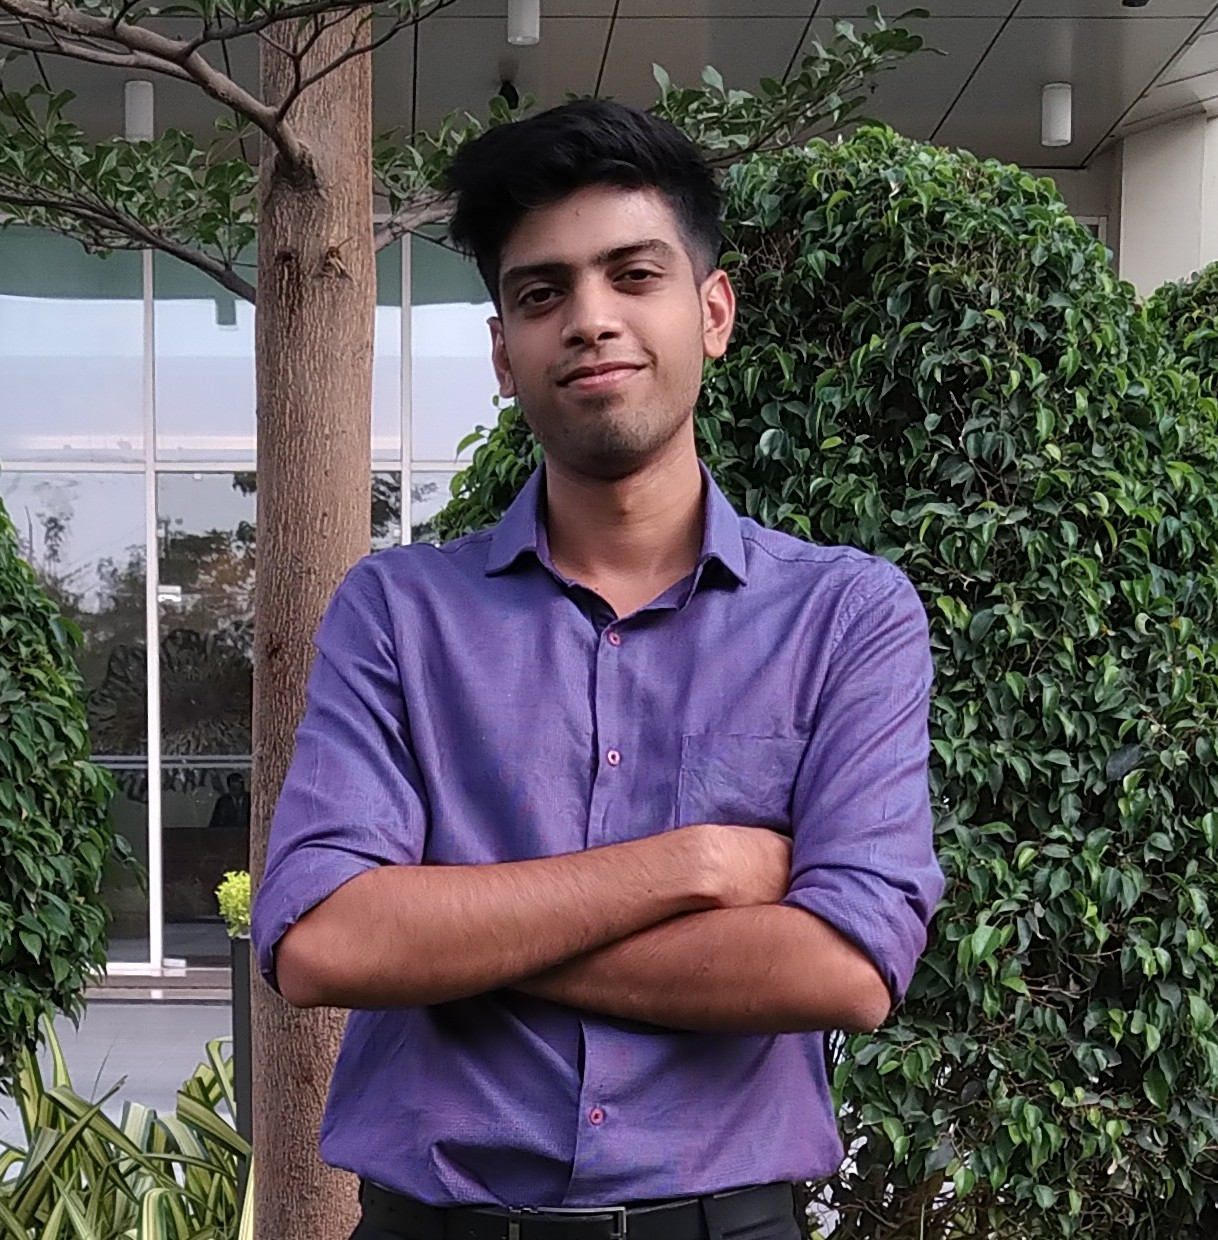
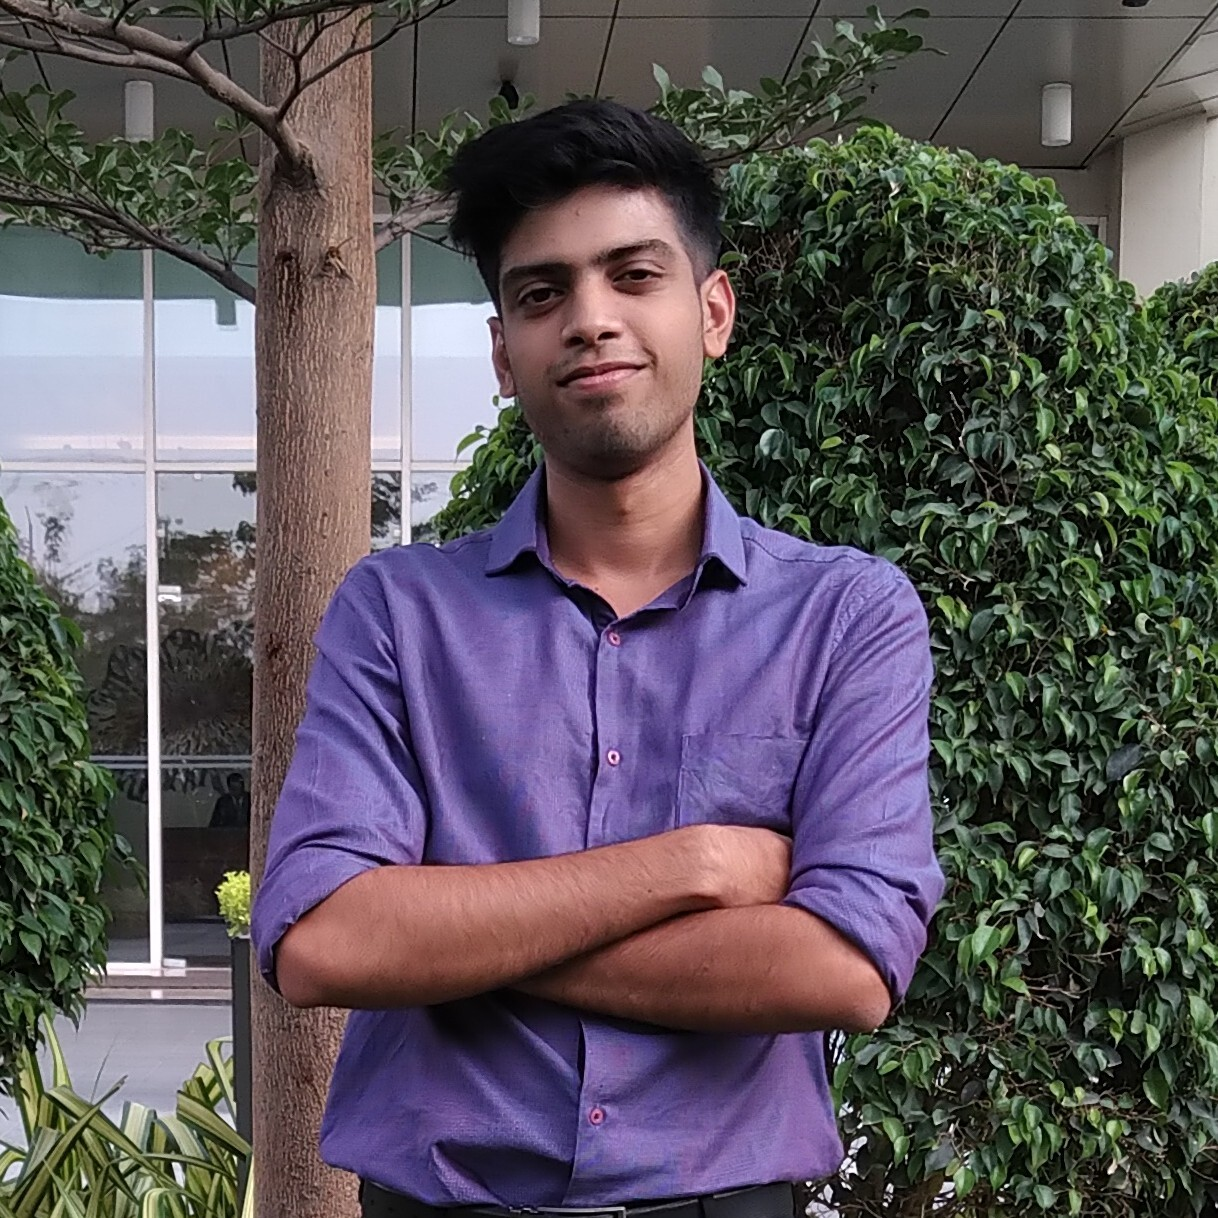
changed to jpg and 1:1 ratio

diff --git a/_data/aiyappa02/aiyappa02.md b/_data/aiyappa02/aiyappa02.md
@@ -1,7 +1,7 @@
 ---
 name: Aiyappa
 institution: PES Institute of technology 🚩
-profile_pic: aiyappa.png
+profile_pic: aiyappa.jpg
 quote: How do you become immortal? By spreading love and happiness and live forever in people's minds
 github_user: aiyappa02
 ---
